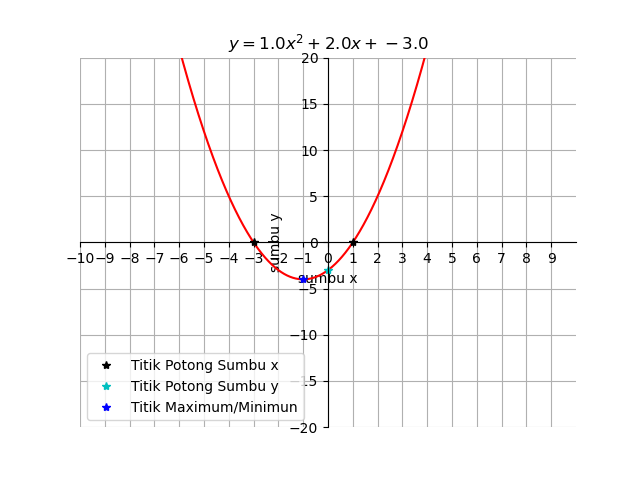
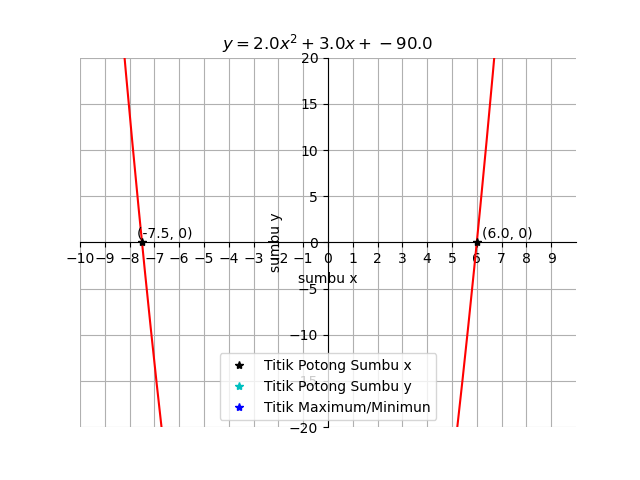
fix bug

diff --git a/templates/linear.html b/templates/linear.html
@@ -158,6 +158,10 @@
       </div>
     </section>
 
+    {%if error %}
+    <h1>{{ error }}</h1>
+    {%endif%}
+
     <div class="form wrap">
       <form action="/linear" method="POST" id="myForm">
         <div class="input-form">

diff --git a/init.py b/init.py
@@ -35,27 +35,34 @@ def linear():
         a = int(request.form['nilai_a'])
         b = int(request.form['nilai_b'])
 
-        x = np.arange(-10, 10, 0.01)
-        y = a*x + b
-
         x1 = -b/a
         y1 = b
 
         data = [x1, y1]
 
-        inputUser = [int(x1), int(y1)]
+        inputUser = [int(a), int(b)]
+
+        jarak1 = -abs(x1)*2
+        jarak2 = abs(x1)*2
+        jaraky1 = -abs(y1)*2
+        jaraky2 = abs(y1)*2
+
+        x = np.arange(jarak1, jarak2, 0.01)
+        y = a*x + b
 
         plt.plot(x,y, "r")
         plt.plot(x1, 0, "k*", label=f"Titik Potong Sumbu x ")
         plt.plot(0, y1, "c*", label=f"Titik Potong Sumbu y ")
 
-        plt.xlim(-10, 10)
-        plt.ylim(-20, 20)
+        plt.ylim(jaraky1, jaraky2)
 
         plt.title(f"$y = {a}x + {b}$")
         plt.xlabel("sumbu x")
         plt.ylabel("sumbu y")
         plt.grid()
+
+        plt.text((x1+0.2),0.5,(x1,0))
+        plt.text(0.5,(y1+0.2),(0,y1))
 
         ax = plt.gca()
         ax.spines['left'].set_position(('data', 0))
@@ -89,8 +96,8 @@ def kuadrat():
             return x1, x2
 
         def titikMaxMin(a,b): # <- mencari titik maksimum atau minimum
-            xm = -b/2*a
-            ym = -D/4*a
+            xm = -b/(2*a)
+            ym = -D/(4*a)
             return xm, ym
 
         def titikPotongY(c): #<- mencari titik potong pada sumbu y
@@ -114,6 +121,11 @@ def kuadrat():
 
         plt.xlim(-10, 10)
         plt.ylim(-20, 20)
+        
+        plt.text((x1+0.2),0.5,(x1,0))
+        plt.text((x2-0.2),0.5,(x2,0))
+        plt.text(0.5,ty,(x2,0))
+        plt.text((xm),(ty-2),(x2,0))
 
         plt.xticks(np.arange(-10, 10, 1))
         plt.title(f"$y = {a}x^2 + {b}x + {c}$")
